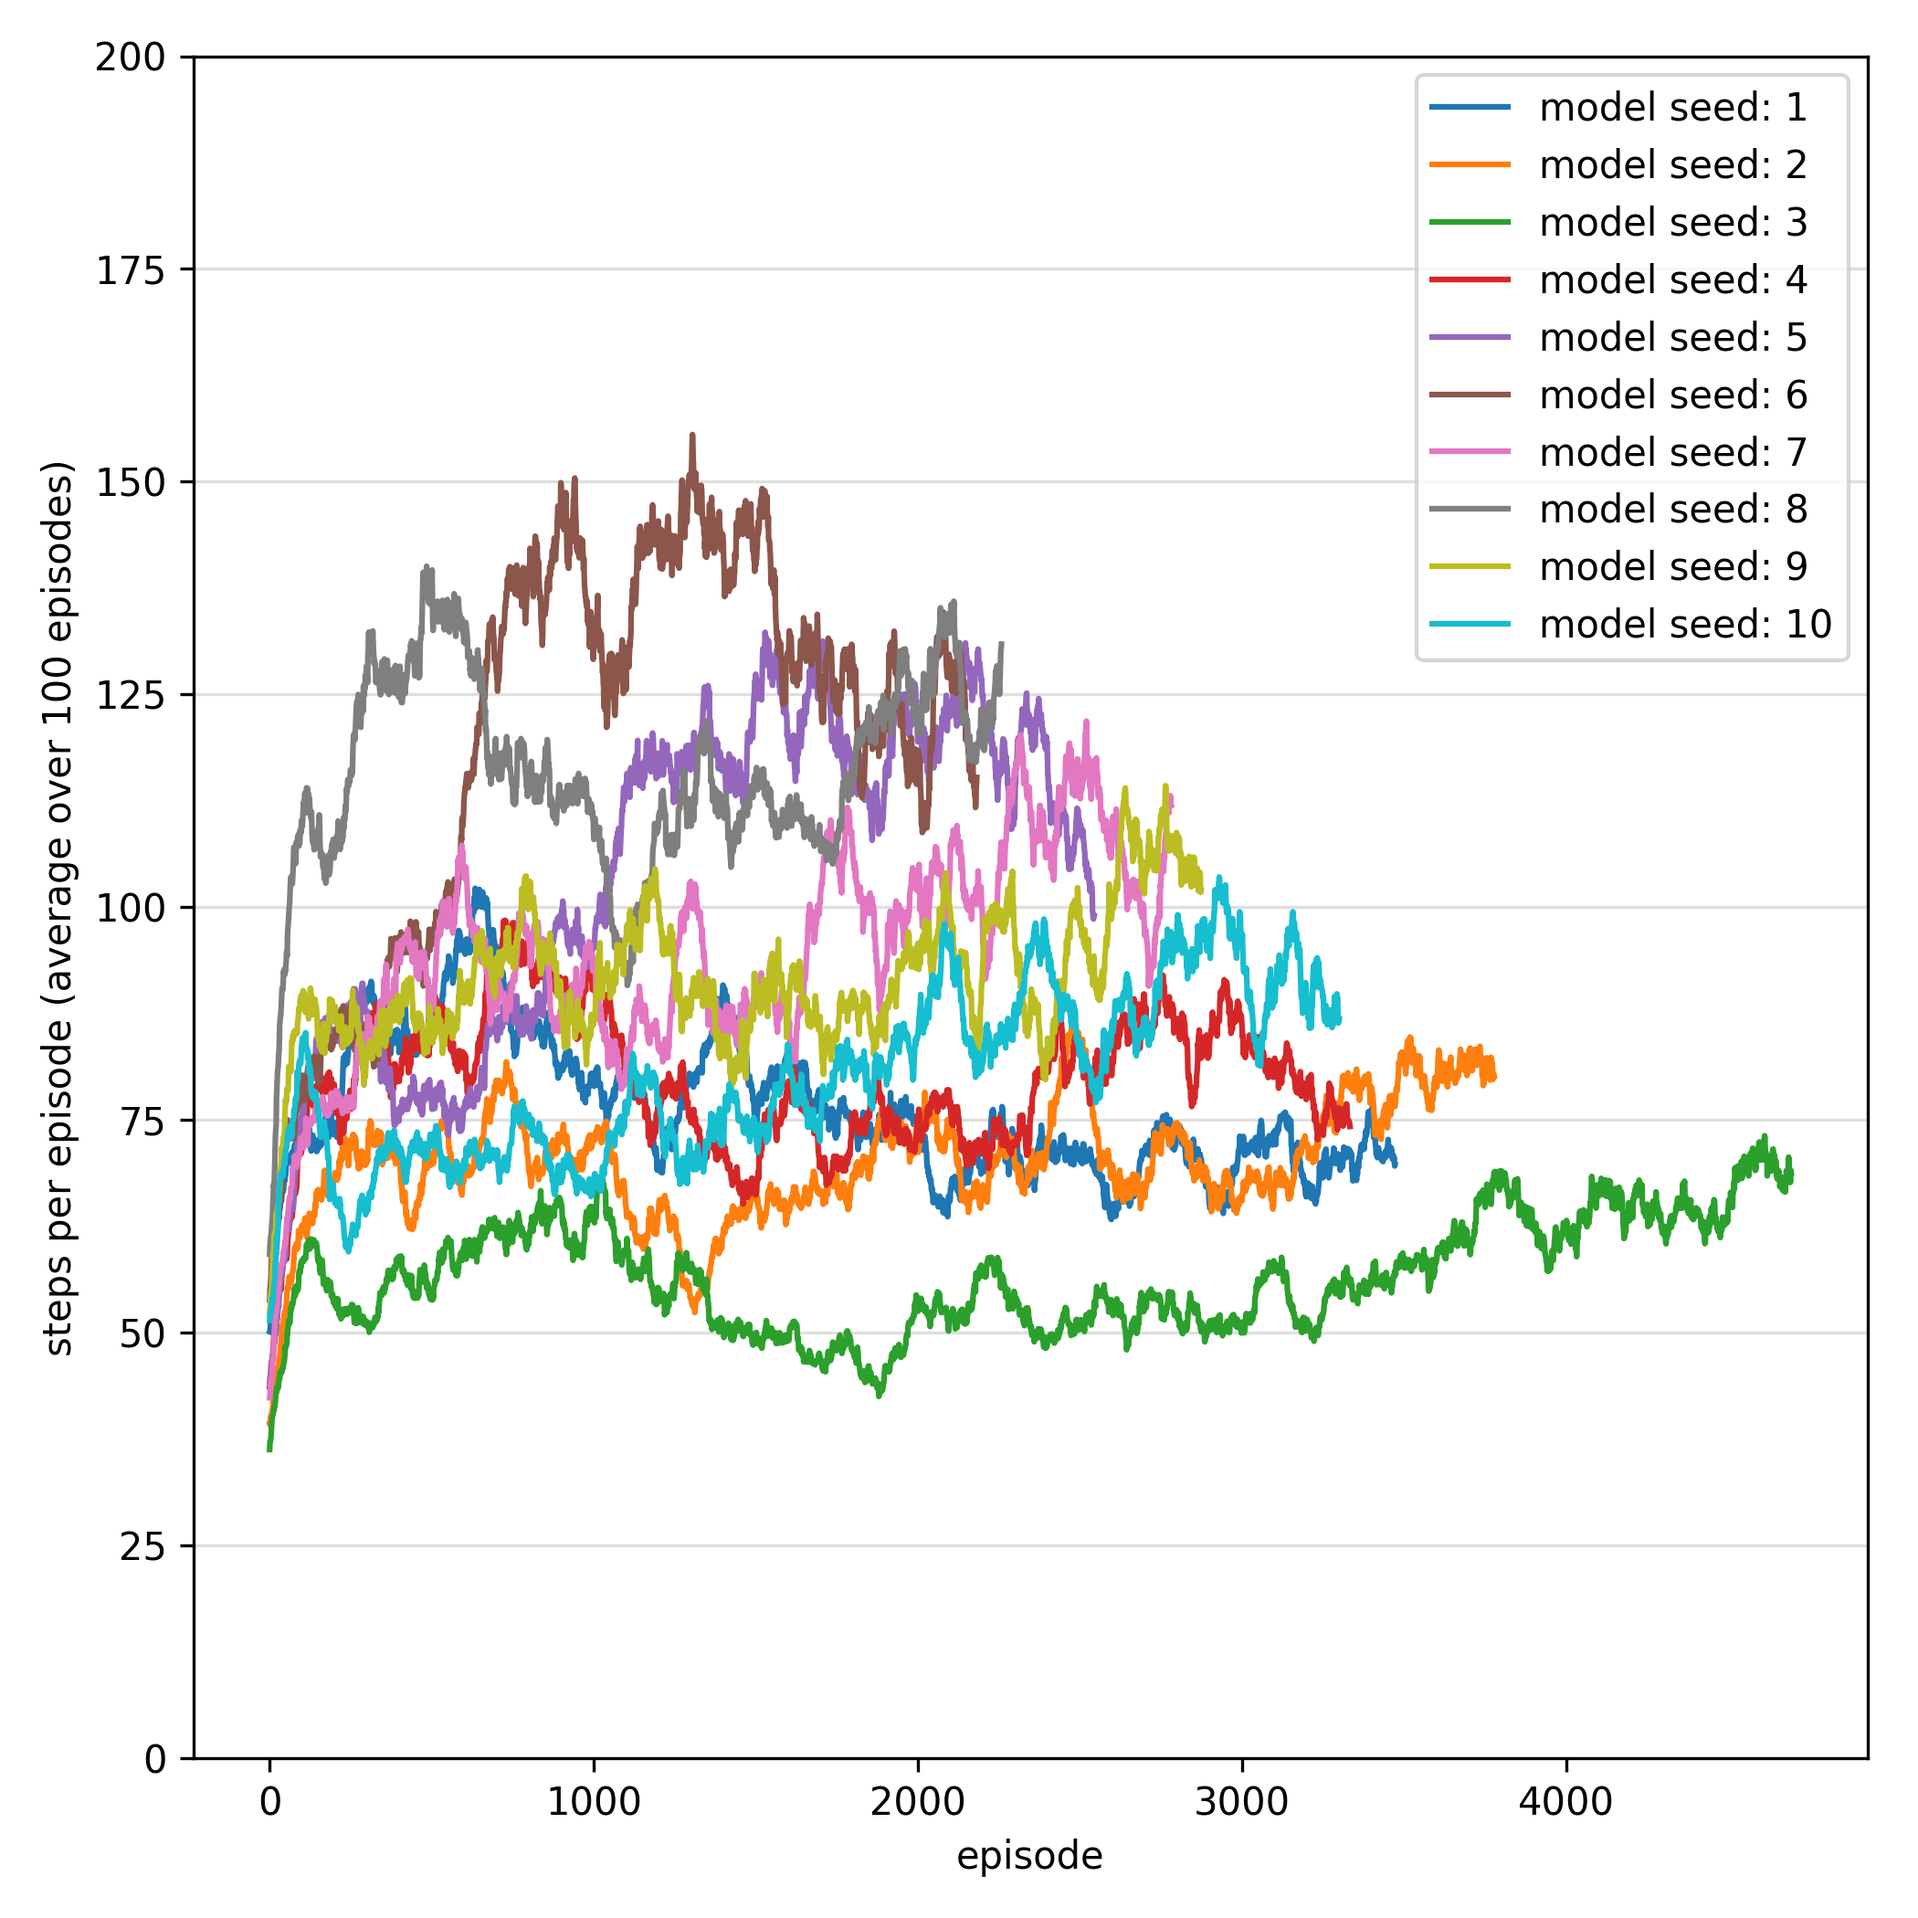
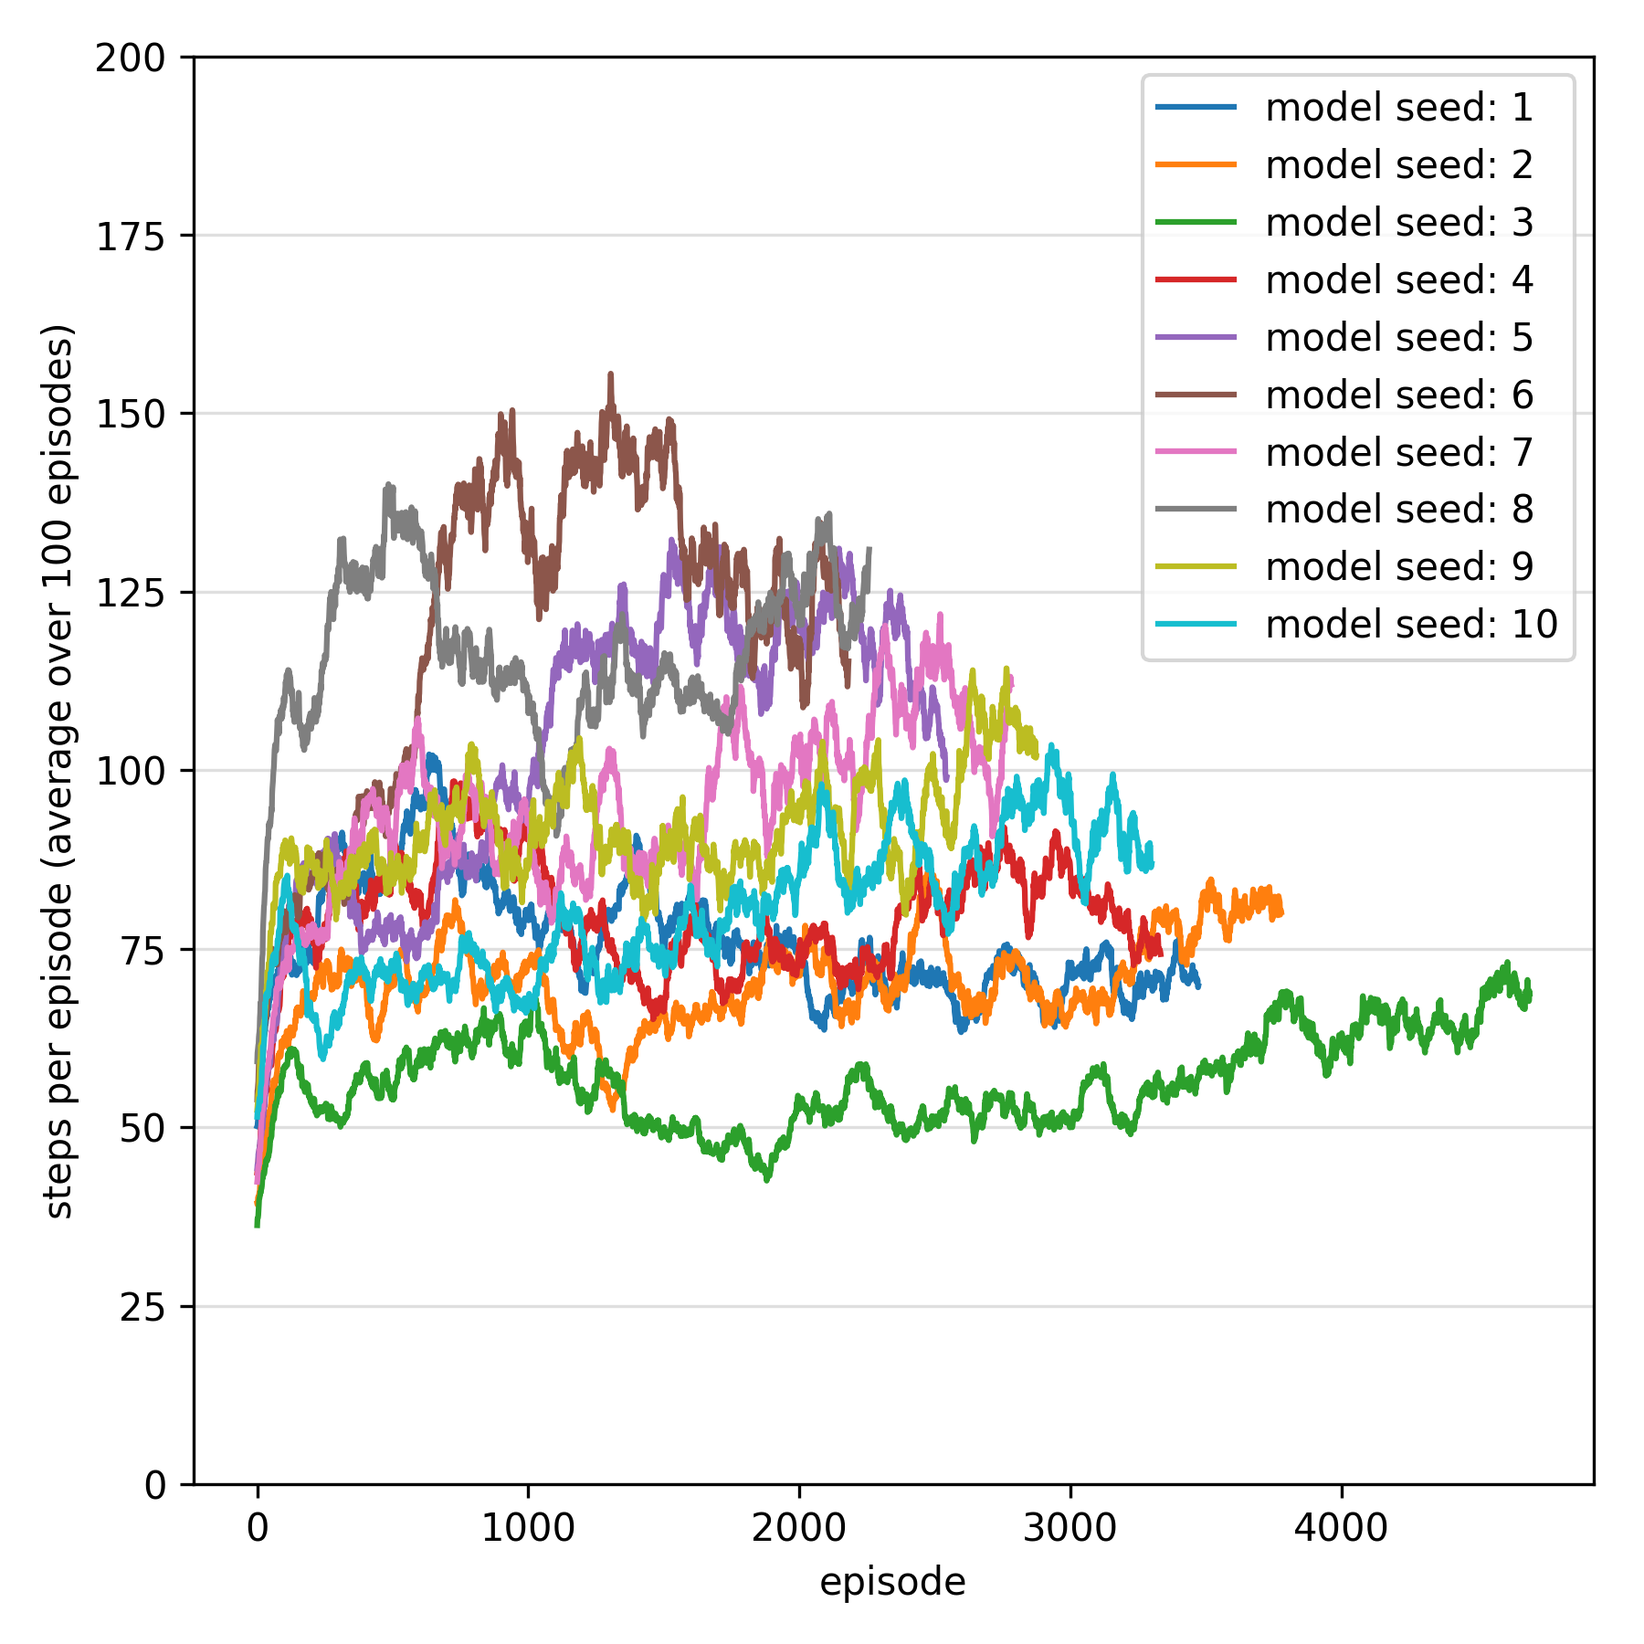
Change evals

Changed region(s): [[0.0, 0.0, 0.9644, 0.9956], [0.6844, 0.0311, 0.9956, 0.9022]]

diff --git a/neurosim/tools/eval_multimodel.py b/neurosim/tools/eval_multimodel.py
@@ -137,6 +137,80 @@ def spiking_frequencies_table(wdirs, outdir):
       writer.writerow(row)
 
 
+def iters_for_evol(wdir, outdir=None, steps=[100], delimit_wdirs=False):
+  if not outdir:
+    outdir = wdir
+  outputfile = os.path.join(
+    outdir, 'iters_during_training.png')
+
+  all_wdir_steps, _ = _extract_hpsteps(wdir)
+  training_results = []
+  for wdir_steps in all_wdir_steps:
+    with open(os.path.join(wdir_steps, 'es_train.txt')) as f:
+      for row in csv.reader(f, delimiter='\t'):
+        iter_median, iter_mean, iter_min, iter_max = row[1:5]
+        training_results.append({
+          'median': float(iter_median),
+          'mean': float(iter_mean),
+          'min': float(iter_min),
+          'max': float(iter_max),
+        })
+
+  plt.figure(figsize=(7,7))
+  plt.ylim(0, 510)
+  plt.grid(axis='y', alpha=0.3)
+  plt.ylabel('steps per episode')
+  tr_averages = {STEP: _get_agg([tr['mean'] for tr in training_results], STEP, np.average) for STEP in steps}
+
+  plt.plot(list(range(len(training_results))), [tr['max'] for tr in training_results], '.')
+  plt.plot(list(range(len(training_results))), [tr['mean'] for tr in training_results], '.')
+  plt.plot(list(range(len(training_results))), [tr['min'] for tr in training_results], '.')
+  for step, averages in tr_averages.items():
+      plt.plot([t + step for t in range(len(averages))], averages)
+
+  plt.legend(['iteration max', 'iteration average', 'iteration min'] +
+    ['average of {} iteration averages'.format(step) for step in tr_averages.keys()])
+  plt.xlabel('iteration (10 episodes)')
+
+  plt.savefig(outputfile, dpi=300)
+
+
+def iters_for_evolstdprl(wdir, outdir=None, steps=[100], delimit_wdirs=False):
+  if not outdir:
+    outdir = wdir
+  outputfile = os.path.join(
+    outdir, 'iters_during_training.png')
+
+  all_wdir_steps, _ = _extract_hpsteps(wdir)
+  training_results = []
+  for wdir_steps in all_wdir_steps:
+    with open(os.path.join(wdir_steps, 'es_train.txt')) as f:
+      for row in csv.reader(f, delimiter='\t'):
+        iter_median, iter_mean, iter_min, iter_max = row[1:5]
+        training_results.append({
+          'median': float(iter_median),
+          'mean': float(iter_mean),
+          'min': float(iter_min),
+          'max': float(iter_max),
+        })
+
+  plt.figure(figsize=(7,7))
+  plt.ylim(0, 510)
+  plt.grid(axis='y', alpha=0.3)
+  plt.ylabel('steps per episode')
+
+  tr_averages = {STEP: _get_agg([tr['mean'] for tr in training_results], STEP, np.average) for STEP in steps}
+
+  plt.plot(list(range(len(training_results))), [tr['max'] for tr in training_results], '.')
+  plt.plot(list(range(len(training_results))), [tr['mean'] for tr in training_results], '.')
+  plt.plot(list(range(len(training_results))), [tr['min'] for tr in training_results], '.')
+  for step, averages in tr_averages.items():
+      plt.plot([t + step for t in range(len(averages))], averages)
+
+  plt.legend(['iteration max', 'iteration average', 'iteration min'] +
+    ['average of {} iteration averages'.format(step) for step in tr_averages.keys()])
+  plt.xlabel('iteration (10 episodes)')
+  plt.savefig(outputfile, dpi=300)
 
 def steps_per_eps(wdir, wdir_name, outdir, merge_es=False, steps=[100],
                   delimit_wdirs=False):
@@ -155,11 +229,11 @@ def steps_per_eps(wdir, wdir_name, outdir, merge_es=False, steps=[100],
         training_results.extend(eps)
         steps_per_wdir.append(len(eps))
 
-  plt.figure(figsize=(10,10))
+  plt.figure(figsize=(7,7))
   plt.ylim(0, 510)
   plt.grid(axis='y')
   plt.ylabel('steps/actions per episode')
-  plt.title('{} performance during training'.format(wdir_name))
+  # plt.title('{} performance during training'.format(wdir_name))
   if merge_es:
     STEP = 10
     merged_tr_results = _get_agg(training_results, STEP, np.average, overlap=False)
@@ -172,17 +246,17 @@ def steps_per_eps(wdir, wdir_name, outdir, merge_es=False, steps=[100],
     plt.plot(list(range(len(max_tr_results))), max_tr_results, '.')
     plt.plot(list(range(len(merged_tr_results))), merged_tr_results, '.')
     plt.plot(list(range(len(min_tr_results))), min_tr_results, '.')
-    for step, medians in tr_medians.items():
-        plt.plot([t + step for t in range(len(medians))], medians)
+    # for step, medians in tr_medians.items():
+    #     plt.plot([t + step for t in range(len(medians))], medians)
     for step, averages in tr_averages.items():
         plt.plot([t + step for t in range(len(averages))], averages)
 
     plt.legend(['iteration max', 'iteration average', 'iteration min'] +
-      ['median of {} iteration averages'.format(step) for step in tr_medians.keys()] +
-      ['averages of {} iteration averages'.format(step) for step in tr_averages.keys()])
+      # ['median of {} iteration averages'.format(step) for step in tr_medians.keys()] +
+      ['average of {} iteration averages'.format(step) for step in tr_averages.keys()])
     plt.xlabel('iteration ({} episodes)'.format(STEP))
 
-    plt.savefig(outputfile)
+    plt.savefig(outputfile, dpi=300)
     return
 
   # non merge_es
@@ -430,6 +504,8 @@ if __name__ == '__main__':
       'spk-freq': spiking_frequencies_table,
       'train-perf': steps_per_eps,
       'train-perf-comb': steps_per_eps_combined,
+      'train-perf-evol': iters_for_evol,
+      'train-perf-evolstdprl': iters_for_evolstdprl,
       'train-unk-moves': undecided_moves,
       'select-eps': select_episodes,
       'eval-selected-eps': save_episodes_eval

diff --git a/neurosim/tools/eval_seedrun.py b/neurosim/tools/eval_seedrun.py
@@ -85,7 +85,7 @@ def show_analyze_once(wdir, modifier=None, steps=100, stype='avg'):
     while maxes[curr_max] < amax:
       curr_max += 1
 
-  plt.figure(figsize=(2.5,7))
+  plt.figure(figsize=(2.5,6))
   plt.grid(axis='y', alpha=0.3)
   aggs_by_step = [list(aggs_seed.values())]
   ax = sns.boxplot(data=aggs_by_step)
@@ -129,7 +129,7 @@ def steps_per_eps(wdir, steps=100, stype='avg', modifier=None, parts=1, seed_nrs
       pstep = int(len(seedruns) / parts)
       seedruns_batch = seedruns[p * pstep:min((p+1)*pstep, len(seedruns))]
 
-    plt.figure(figsize=(7,7))
+    plt.figure(figsize=(6,6))
     plt.ylim(0, 200)
     plt.grid(axis='y', alpha=0.4)
     plt.ylabel('steps per episode ({} over {} episodes)'.format(
